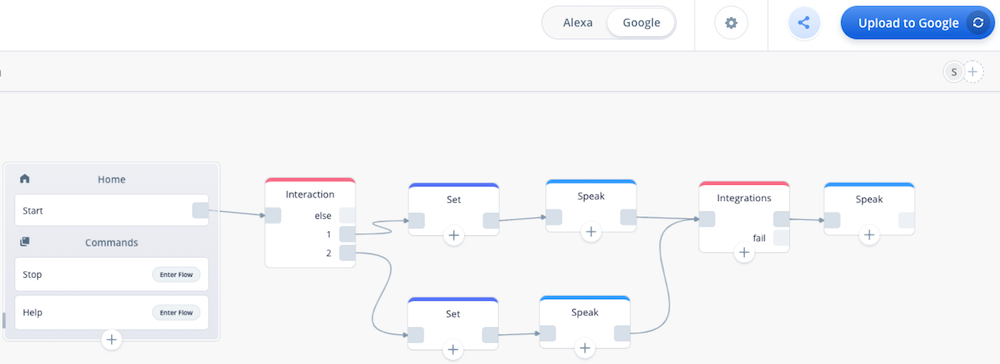
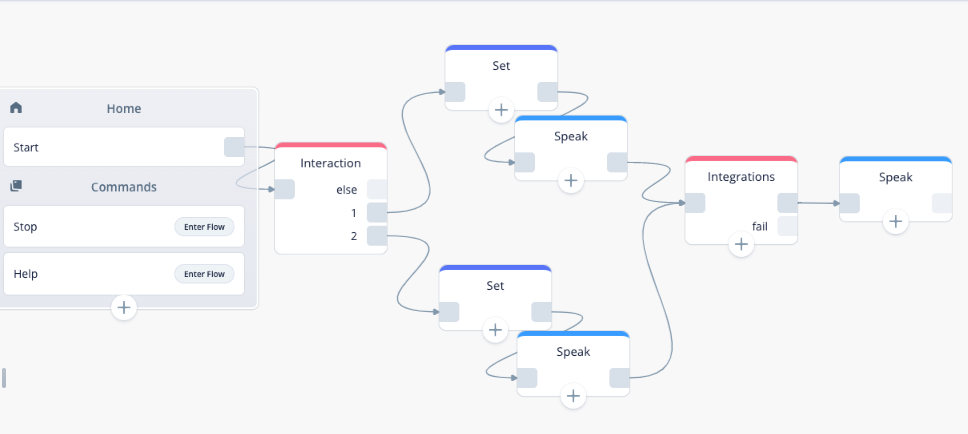
エラー修正

diff --git a/review-starter/chapxx-sitopp.md b/review-starter/chapxx-sitopp.md
@@ -522,7 +522,7 @@ Speaking as Alexa
 * 上記のSpeakブロックの右側からIntegrationsブロックに線を繋ぐ。
 
 
-<!-- ![全体図](images/chapxx-sitopp/s037) -->
+![全体図](images/chapxx-sitopp/s037)
 
 * 全部できたらGoogleにuploadし、先ほどと同じようにシミュレーターで「しょういんじにつないで」→「暖房を消して」と入力し、応答を確認してみましょう。
 
